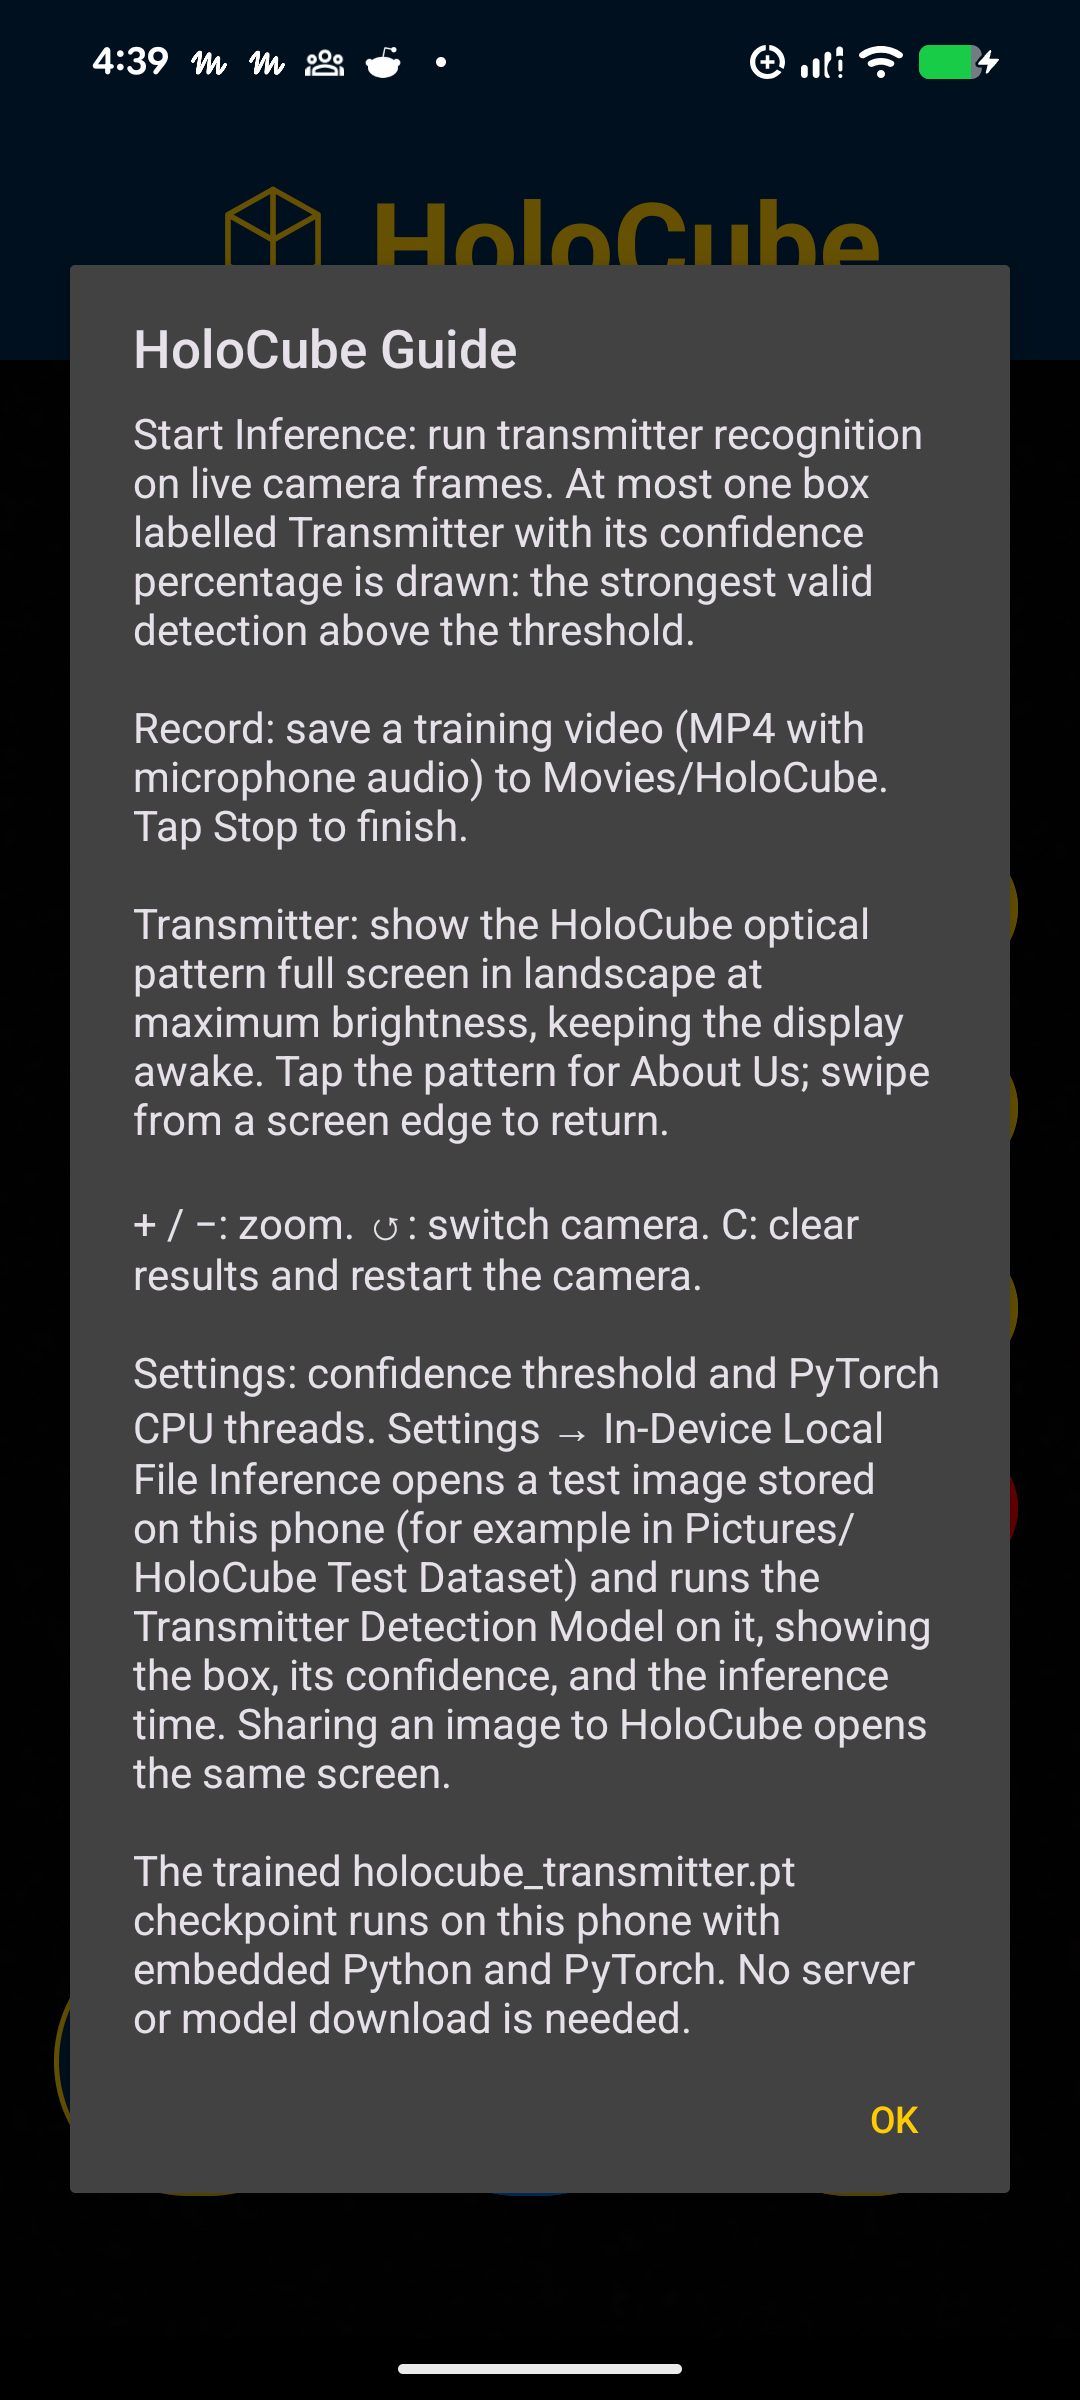
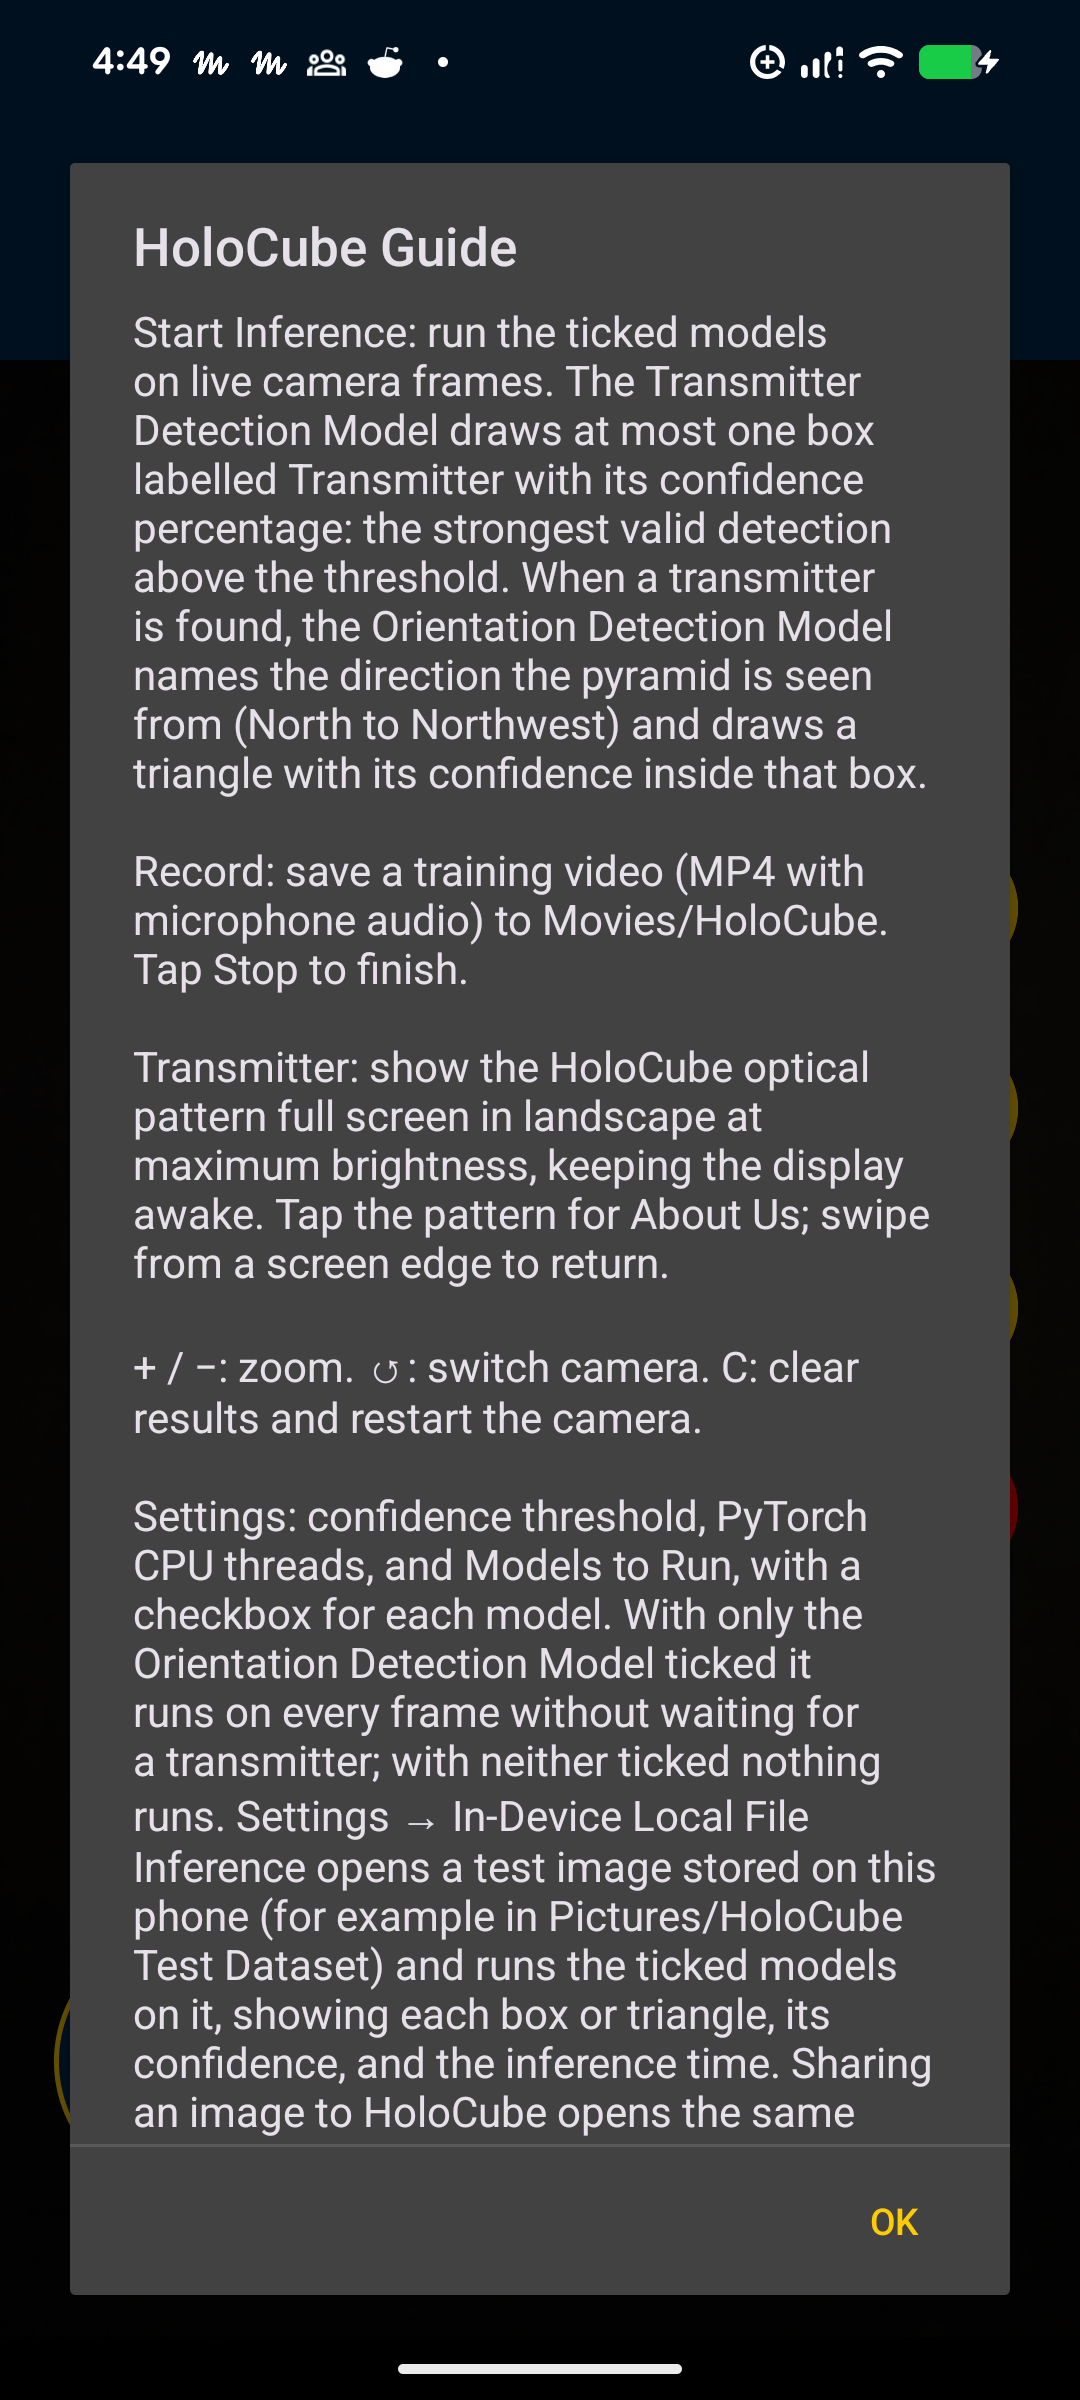
Describe both models in the Guide (1.4.2)
The Guide dialog still described only the transmitter model and a Settings
page with two entries. Its text now covers the Orientation Detection Model,
the transmitter-first rule, the Models to Run checkboxes, Local File
Inference running the ticked models, and both checkpoints. Only the string
changed; screenshot 6 is retaken.

26 unit tests pass and lint has 0 errors. Checked on the Pixel 8a from a
screenshot of the dialog.

diff --git a/VALIDATION.md b/VALIDATION.md
@@ -1,5 +1,22 @@
 # HoloCube Android validation
 
+## 1.4.2: Guide text covers both models — November 15, 2026
+
+- HoloCube Android **1.4.2 (code 10)**: the Guide dialog's text now describes the
+  Orientation Detection Model, the transmitter-first rule, the **Models to Run**
+  checkboxes, and both checkpoints. Only the string changed.
+- Workstation: `./gradlew :app:testDebugUnitTest :app:assembleDebug
+  :app:assembleDebugAndroidTest :app:lintDebug :app:assembleRelease`: BUILD SUCCESSFUL;
+  26 unit tests passed; lint 0 errors, 12 warnings; `aapt` confirms 1.4.2 / code 10.
+  Release APK 104,563,009 bytes, SHA-256
[1 lines of base64/hex data omitted]
+- Pixel 8a: installed over 1.4.1 with `adb install -r`. A screenshot of the Guide shows
+  the new text with the maize OK (screenshot 6 retaken); the text is longer than the
+  dialog and scrolls. The same APK replaced `Apps/Install HoloCube.apk` on the phone and
+  the copy in `~/Downloads` on the workstation (checksums verified). Not uploaded to Drive.
+
+---
+
 ## 1.4.1: visible ticks and a maize Guide OK — November 15, 2026
 
 - HoloCube Android **1.4.1 (code 9)**: the model checkboxes (Settings → Models to Run and
